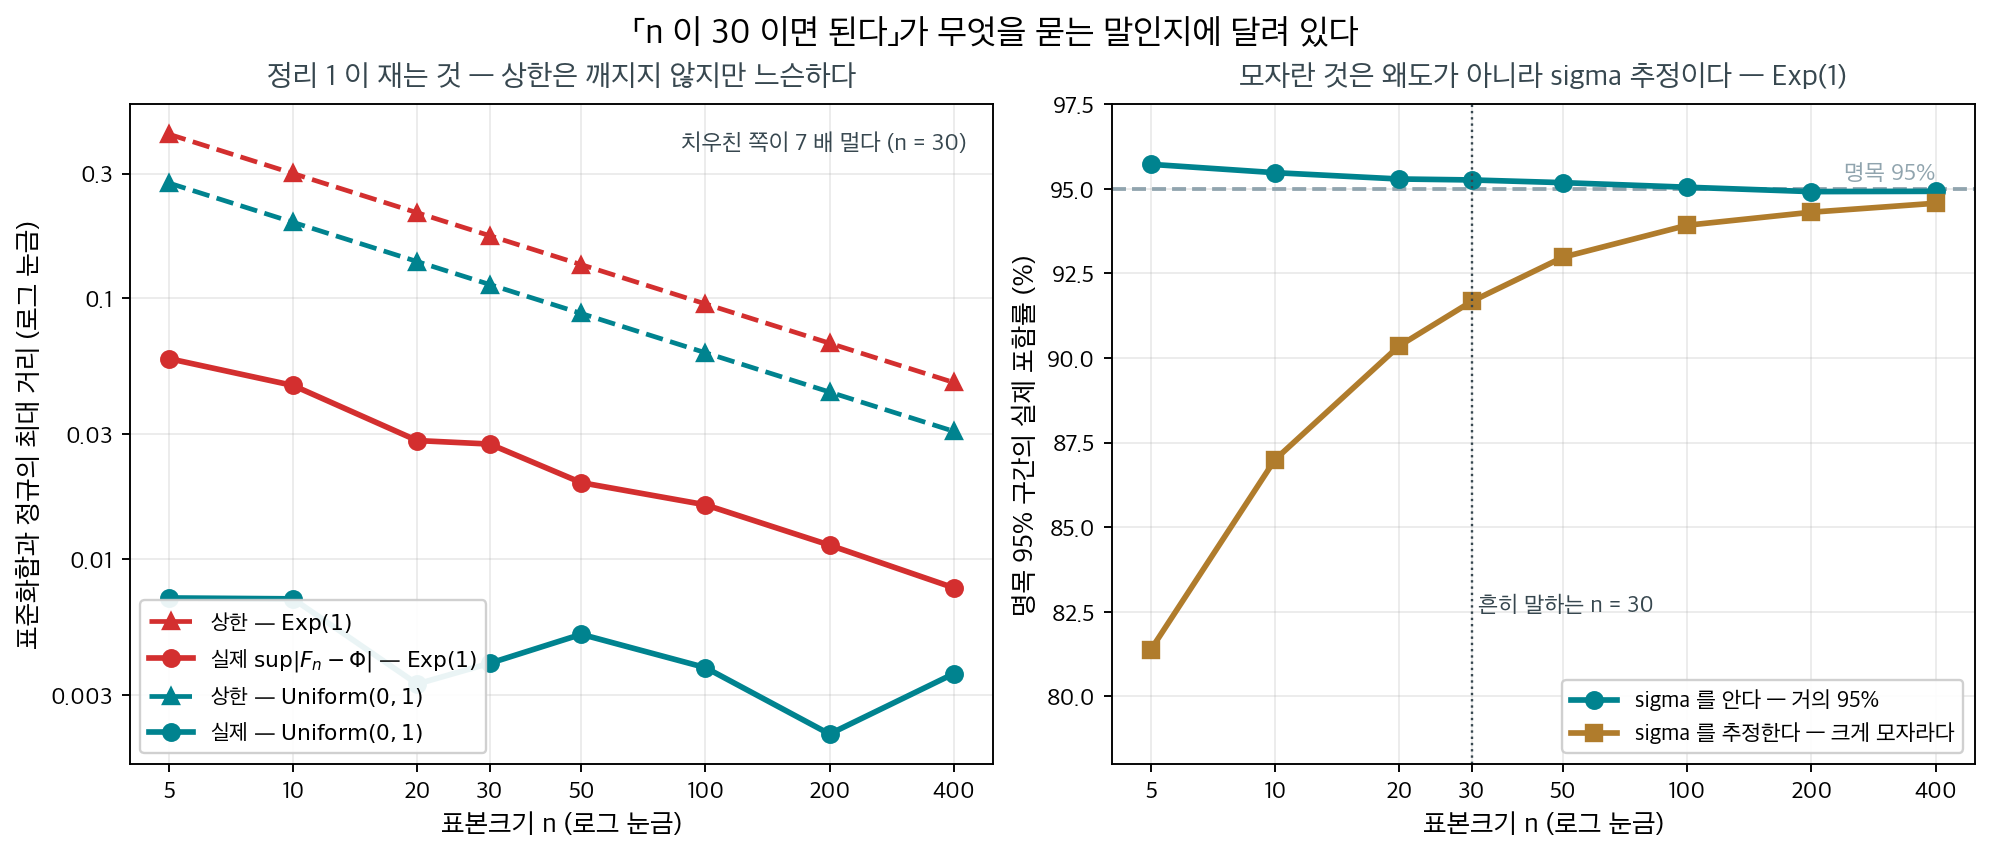
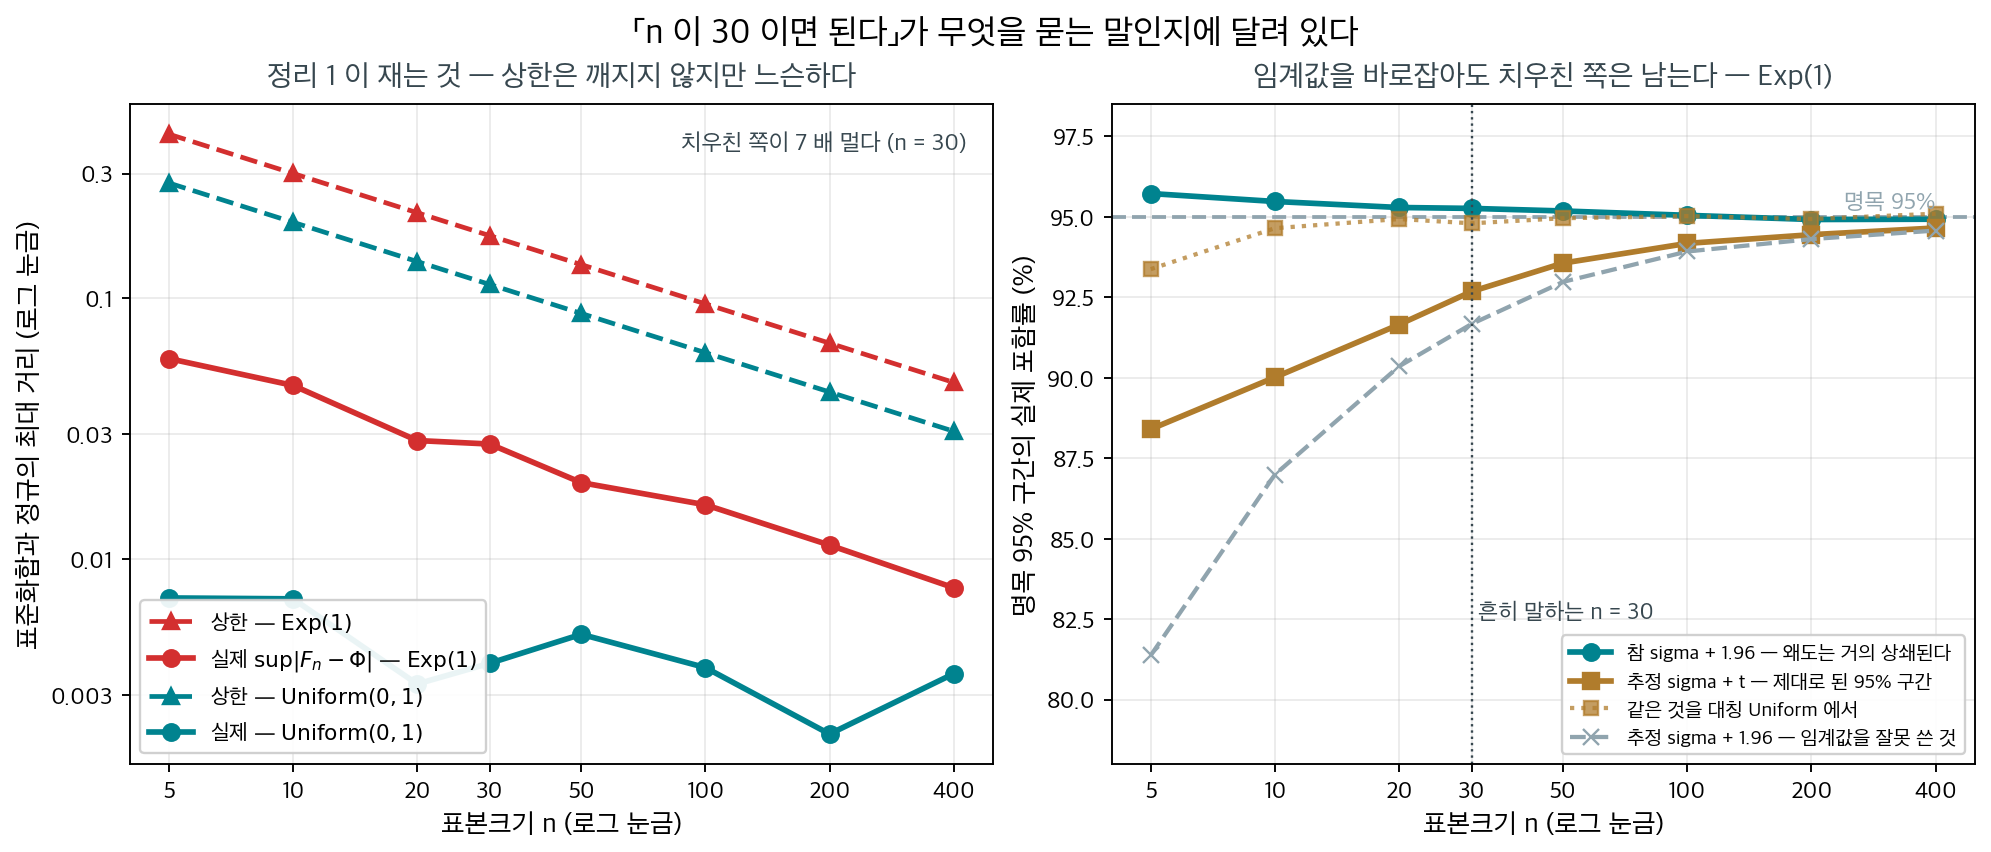
fix(ch03): 베리-에센 상자의 오른쪽 그림이 제대로 된 95% 구간이 아니었다
앞 커밋에서 "추정 sigma" 곡선을 그릴 때 임계값을 1.96 으로 두었다.
sigma 를 추정했으면 임계값도 t(n-1) 이어야 하므로, 그 곡선은 95% 구간이
아니라 임계값을 잘못 쓴 구간이었다. 그것을 근거로 "모자란 것은 왜도가
아니라 sigma 추정 탓" 이라고 적었는데, 바로잡고 보니 결론도 달라진다.

t 로 제대로 세운 구간의 포함률 (Exp(1))
  n=5   88.5%    n=30  92.7%    n=200  94.6%
같은 t 구간을 대칭인 Uniform(0,1) 에 쓰면
  n=5   93.4%    n=30  94.8%

곧 임계값을 바로잡으면 손실의 절반쯤이 사라지고(81.4% -> 88.5%),
남는 5 포인트가 비로소 왜도 탓이다. t 는 정규를 전제로 만든 자라서
치우친 자료에서는 X-bar 와 S 가 함께 커지며 전제가 깨진다.

- 오른쪽 칸을 네 줄로 다시 그림: 참 sigma + 1.96 / 추정 sigma + t /
  같은 t 를 대칭 Uniform 에 / 추정 sigma + 1.96(잘못 쓴 것)
- 코드와 본문을 t 임계값 기준으로 고치고 수치를 실제 출력에 맞춤
- "왜도 탓이 아니다" 로 단정했던 문단을 세 겹으로 갈라 다시 씀

diff --git a/scripts/make_ch03_berry_esseen_check.py b/scripts/make_ch03_berry_esseen_check.py
@@ -50,7 +50,7 @@ def measure(rng):
     su = 1 / np.sqrt(12)                        # Uniform(0,1) 의 sigma
     rho_u = np.mean(np.abs(rng.uniform(0, 1, 400_000) - 0.5) ** 3)
 
-    sup_e, sup_u, cov_true, cov_est = [], [], [], []
+    sup_e, sup_u, cov_true, cov_est, cov_t, cov_tu = [], [], [], [], [], []
     for n in NS:
         e = rng.exponential(1.0, (B, n))
         u = rng.uniform(0, 1, (B, n))
@@ -61,18 +61,24 @@ def measure(rng):
         cov_true.append(np.mean(np.abs(e.mean(1) - 1.0) <= 1.96 / np.sqrt(n)))
         cov_est.append(np.mean(np.abs(e.mean(1) - 1.0)
                                <= 1.96 * e.std(1, ddof=1) / np.sqrt(n)))
+        tc = stats.t.ppf(0.975, n - 1)          # 제대로 된 95% 구간의 임계값
+        cov_t.append(np.mean(np.abs(e.mean(1) - 1.0)
+                             <= tc * e.std(1, ddof=1) / np.sqrt(n)))
+        cov_tu.append(np.mean(np.abs(u.mean(1) - 0.5)
+                              <= tc * u.std(1, ddof=1) / np.sqrt(n)))
 
     nn = np.array(NS, float)
     return (np.array(sup_e), np.array(sup_u),
             C * 2.0 / np.sqrt(nn),                  # Exp(1): rho=2, sigma=1
             C * rho_u / (su ** 3 * np.sqrt(nn)),
-            np.array(cov_true), np.array(cov_est))
+            np.array(cov_true), np.array(cov_est),
+            np.array(cov_t), np.array(cov_tu))
 
 
 # === 그림 =========================================================
 def main():
     rng = np.random.default_rng(SEED)
-    sup_e, sup_u, be_e, be_u, cov_true, cov_est = measure(rng)
+    sup_e, sup_u, be_e, be_u, cov_true, cov_est, cov_t, cov_tu = measure(rng)
     nn = np.array(NS, float)
 
     fig, axes = plt.subplots(1, 2, figsize=(11.6, 4.9), constrained_layout=True)
@@ -106,9 +112,13 @@ def main():
     ax.axhline(95, color=MUTED, lw=1.6, ls="--")
     ax.text(nn[-1], 95.25, "명목 95%", ha="right", fontsize=10, color=MUTED)
     ax.plot(nn, cov_true * 100, marker="o", ms=7, lw=2.4, color=TEAL,
-            label="sigma 를 안다 — 거의 95%")
-    ax.plot(nn, cov_est * 100, marker="s", ms=7, lw=2.4, color=AMBER,
-            label="sigma 를 추정한다 — 크게 모자라다")
+            label="참 sigma + 1.96 — 왜도는 거의 상쇄된다")
+    ax.plot(nn, cov_t * 100, marker="s", ms=7, lw=2.4, color=AMBER,
+            label="추정 sigma + t — 제대로 된 95% 구간")
+    ax.plot(nn, cov_tu * 100, marker="s", ms=6, lw=1.8, color=AMBER, ls=":",
+            alpha=0.75, label="같은 것을 대칭 Uniform 에서")
+    ax.plot(nn, cov_est * 100, marker="x", ms=7, lw=1.8, color=MUTED, ls="--",
+            label="추정 sigma + 1.96 — 임계값을 잘못 쓴 것")
     ax.axvline(30, color=INK, lw=1.0, ls=":")
     ax.text(31, 82.5, "흔히 말하는 n = 30", fontsize=9.8, color=INK)
     ax.set_xscale("log")
@@ -116,10 +126,10 @@ def main():
     ax.minorticks_off()
     ax.set_xlabel("표본크기 n (로그 눈금)", fontsize=11.5)
     ax.set_ylabel("명목 95% 구간의 실제 포함률 (%)", fontsize=11.5)
-    ax.set_title("모자란 것은 왜도가 아니라 sigma 추정이다 — Exp(1)",
+    ax.set_title("임계값을 바로잡아도 치우친 쪽은 남는다 — Exp(1)",
                  fontsize=12.5, color=INK, pad=8)
-    ax.set_ylim(78, 97.5)
-    ax.legend(fontsize=9.6, loc="lower right", framealpha=0.92)
+    ax.set_ylim(78, 98.5)
+    ax.legend(fontsize=8.6, loc="lower right", framealpha=0.92)
     ax.grid(alpha=0.25)
 
     fig.suptitle("「n 이 30 이면 된다」가 무엇을 묻는 말인지에 달려 있다",
@@ -130,8 +140,9 @@ def main():
     plt.close(fig)
     print(f"saved {path}")
     for i, n in enumerate(NS):
-        print(f"    n={n:4d}  sup(Exp)={sup_e[i]:.4f}  상한={be_e[i]:.4f}"
-              f"  포함률 참σ={cov_true[i]*100:.2f}%  추정σ={cov_est[i]*100:.2f}%")
+        print(f"    n={n:4d}  sup={sup_e[i]:.4f} 상한={be_e[i]:.4f} | "
+              f"참σ+z {cov_true[i]*100:.2f}%  추정σ+t {cov_t[i]*100:.2f}%  "
+              f"추정σ+z {cov_est[i]*100:.2f}%  (대칭 t {cov_tu[i]*100:.2f}%)")
 
 
 if __name__ == "__main__":

diff --git a/docs/ch03/limits/berry_esseen.md b/docs/ch03/limits/berry_esseen.md
@@ -88,43 +88,53 @@ for n in (5, 30, 200):
     sup = stats.kstest(z, "norm").statistic
     bound = 0.4748 * 2.0 / np.sqrt(n)
 
-    # (2) 실무가 겪는 것 — sigma 를 알 때와 추정할 때의 포함률
+    # (2) 실무가 겪는 것 — 임계값까지 제대로 골랐을 때의 포함률
+    s = x.std(1, ddof=1)
+    tc = stats.t.ppf(0.975, n - 1)
     cov_known = np.mean(np.abs(x.mean(1) - 1.0) <= 1.96 / np.sqrt(n))
-    cov_est = np.mean(np.abs(x.mean(1) - 1.0)
-                      <= 1.96 * x.std(1, ddof=1) / np.sqrt(n))
+    cov_t = np.mean(np.abs(x.mean(1) - 1.0) <= tc * s / np.sqrt(n))
 
     print(f"n={n:3d}  최대거리 {sup:.4f} (상한 {min(bound,1):.4f})"
-          f"   포함률  참 sigma {cov_known*100:.2f}%   추정 sigma {cov_est*100:.2f}%")
+          f"   포함률  참 sigma {cov_known*100:.2f}%   추정 sigma+t {cov_t*100:.2f}%")
 ```
 
 ```
-n=  5  최대거리 0.0581 (상한 0.4247)   포함률  참 sigma 95.57%   추정 sigma 81.36%
-n= 30  최대거리 0.0247 (상한 0.1734)   포함률  참 sigma 95.22%   추정 sigma 91.79%
-n=200  최대거리 0.0115 (상한 0.0671)   포함률  참 sigma 95.04%   추정 sigma 94.45%
+n=  5  최대거리 0.0581 (상한 0.4247)   포함률  참 sigma 95.57%   추정 sigma+t 88.45%
+n= 30  최대거리 0.0247 (상한 0.1734)   포함률  참 sigma 95.22%   추정 sigma+t 92.70%
+n=200  최대거리 0.0115 (상한 0.0671)   포함률  참 sigma 95.04%   추정 sigma+t 94.58%
 ```
 
 <figure markdown>
   ![왼쪽은 표준화합과 정규의 최대 거리를 로그 눈금으로 그린 것으로 상한 두 줄이 실제 두 줄보다 늘 위에 있다. 오른쪽은 포함률로, 참 sigma 를 쓰면 n이 5일 때도 95퍼센트에 붙지만 추정하면 81퍼센트에서 시작해 천천히 올라온다](./img/berry_esseen_check.png){ width=940 }
-  <figcaption markdown>왼쪽 — 정리 1 의 상한(점선)은 실제 거리(실선)보다 **한 번도 아래로 내려오지 않는다.** 다만 치우친 $\mathrm{Exp}(1)$ 에서 $7$ 배, 대칭인 $\mathrm{Uniform}(0,1)$ 에서 $30$ 배 느슨하다. 두 쌍이 나란한 것은 양쪽 모두 $1/\sqrt n$ 으로 줄기 때문이다. 오른쪽 — 같은 $\mathrm{Exp}(1)$ 에서 명목 $95\%$ 구간의 실제 포함률. 자료에서 직접 그렸다(`scripts/make_ch03_berry_esseen_check.py`).</figcaption>
+  <figcaption markdown>왼쪽 — 정리 1 의 상한(점선)은 실제 거리(실선)보다 **한 번도 아래로 내려오지 않는다.** 다만 치우친 $\mathrm{Exp}(1)$ 에서 $7$ 배, 대칭인 $\mathrm{Uniform}(0,1)$ 에서 $30$ 배 느슨하다. 두 쌍이 나란한 것은 양쪽 모두 $1/\sqrt n$ 으로 줄기 때문이다. 오른쪽 — 같은 $\mathrm{Exp}(1)$ 에서 명목 $95\%$ 구간의 실제 포함률. 참 $\sigma$(청록)는 거의 $95\%$ 이고, 임계값까지 제대로 고른 $t$ 구간(호박)은 그보다 낮으며, $1.96$ 을 그대로 쓴 것(회색 ×)이 가장 낮다. 점선은 같은 $t$ 구간을 대칭인 $\mathrm{Uniform}$ 에 쓴 것이다. 자료에서 직접 그렸다(`scripts/make_ch03_berry_esseen_check.py`).</figcaption>
 </figure>
 
 **상한은 지켜지지만 느슨하다.** $n = 30$ 에서 상한이 $0.1734$ 인데 실제 거리는 $0.0247$ 로
 $7$ 배 차이다. 대칭인 모집단에서는 $30$ 배까지 벌어진다. 정리 1 은 **최악의 경우를 보장**할
 뿐이므로, 「이만큼이면 안전하다」를 정하는 데 쓰고 「이만큼 틀렸다」를 읽는 데는 쓰지 않는다.
 
-**그런데 오른쪽 칸이 더 중요한 말을 한다.** 참 $\sigma$ 를 쓰면 $n = 5$ 에서도 포함률이
-$95.6\%$ 다. 치우친 모집단인데도 그렇다. 양쪽 꼬리의 어긋남이 서로 반대 방향이라
-**대칭인 구간에서는 상당 부분 상쇄되기** 때문이다. 그러니 $n = 30$ 에서 포함률이 $91.8\%$ 로
-모자란 것은 **왜도 탓이 아니다.** $\sigma$ 를 $S$ 로 바꿔 쓴 탓이고, 그 손실은 대칭인
-모집단에서도 똑같이 일어난다.
+**그런데 오른쪽 칸이 둘을 갈라 준다.** 참 $\sigma$ 를 쓰면 $n = 5$ 에서도 포함률이 $95.6\%$ 다.
+치우친 모집단인데도 그렇다. 양쪽 꼬리의 어긋남이 서로 반대 방향이라 **대칭인 구간에서는
+상당 부분 상쇄되기** 때문이다. 최대 거리가 $0.42$ 까지 허용되는 자리에서도 포함률은 멀쩡하다.
 
-**정리 1 은 그 손실에 대해 아무 말도 하지 않는다.** 분자의 분포만 다루고 분모가 흔들리는
-일은 다루지 않기 때문이다. 그쪽을 메우는 것이 $t$ 분포이고, 5.2절이 그 이야기다.
+$\sigma$ 를 $S$ 로 바꾸면 사정이 달라진다. 여기서 **임계값도 함께 바꿔야 한다** — $1.96$ 이
+아니라 $t_{n-1}$ 이다. 그것까지 제대로 한 구간이 $n = 5$ 에서 $88.5\%$, $n = 30$ 에서
+$92.7\%$ 다. 임계값을 $1.96$ 으로 둔 채 $S$ 만 꽂으면 $81.4\%$ 까지 떨어진다(회색 ×).
+**흔한 실수 하나가 손실의 절반을 만든다.**
+
+남은 모자람이 비로소 왜도 탓이다. 같은 $t$ 구간을 대칭인 $\mathrm{Uniform}$ 에 쓰면
+$n = 5$ 에서 $93.4\%$ 로 거의 메워지는데(점선), $\mathrm{Exp}(1)$ 은 $88.5\%$ 에 머문다.
+그 $5$ 포인트가 치우침의 값이다. $t$ 는 정규를 전제로 만든 자라서, 치우친 자료에서는
+$\bar X$ 와 $S$ 가 함께 커지는 바람에 전제가 깨진다.
+
+**정리 1 은 이 가운데 첫 줄만 다룬다.** 참 $\sigma$ 로 표준화한 합이 정규에서 얼마나 떨어졌는지는
+말해 주지만, 분모가 흔들리는 일에는 아무 말도 하지 않는다. 그쪽을 메우는 것이 $t$ 분포이고,
+5.2절이 그 이야기다.
 
 그러니 「$n \ge 30$ 이면 된다」는 **무엇을 묻느냐에 따라 답이 다르다.** 참 $\sigma$ 로
-표준화한 합이 정규에 가까운가를 묻는 것이라면 정리 1 이 답하고, 그 답은 왜도에 따라
-$n$ 이 커진다. 손에 쥔 자료로 만든 구간이 $95\%$ 를 담는가를 묻는 것이라면 정리 1 이
-아니라 $t$ 가 답한다. $30$ 이라는 수 하나로 두 물음에 함께 답할 수는 없다.
+표준화한 합이 정규에 가까운가를 묻는 것이라면 정리 1 이 답한다. 손에 쥔 자료로 만든
+구간이 $95\%$ 를 담는가를 묻는 것이라면 임계값을 $t$ 로 고르는 일이 먼저이고, 그러고도
+치우친 자료에서는 $30$ 이 모자란다. $30$ 이라는 수 하나로 두 물음에 함께 답할 수는 없다.
 
 </div>
 
